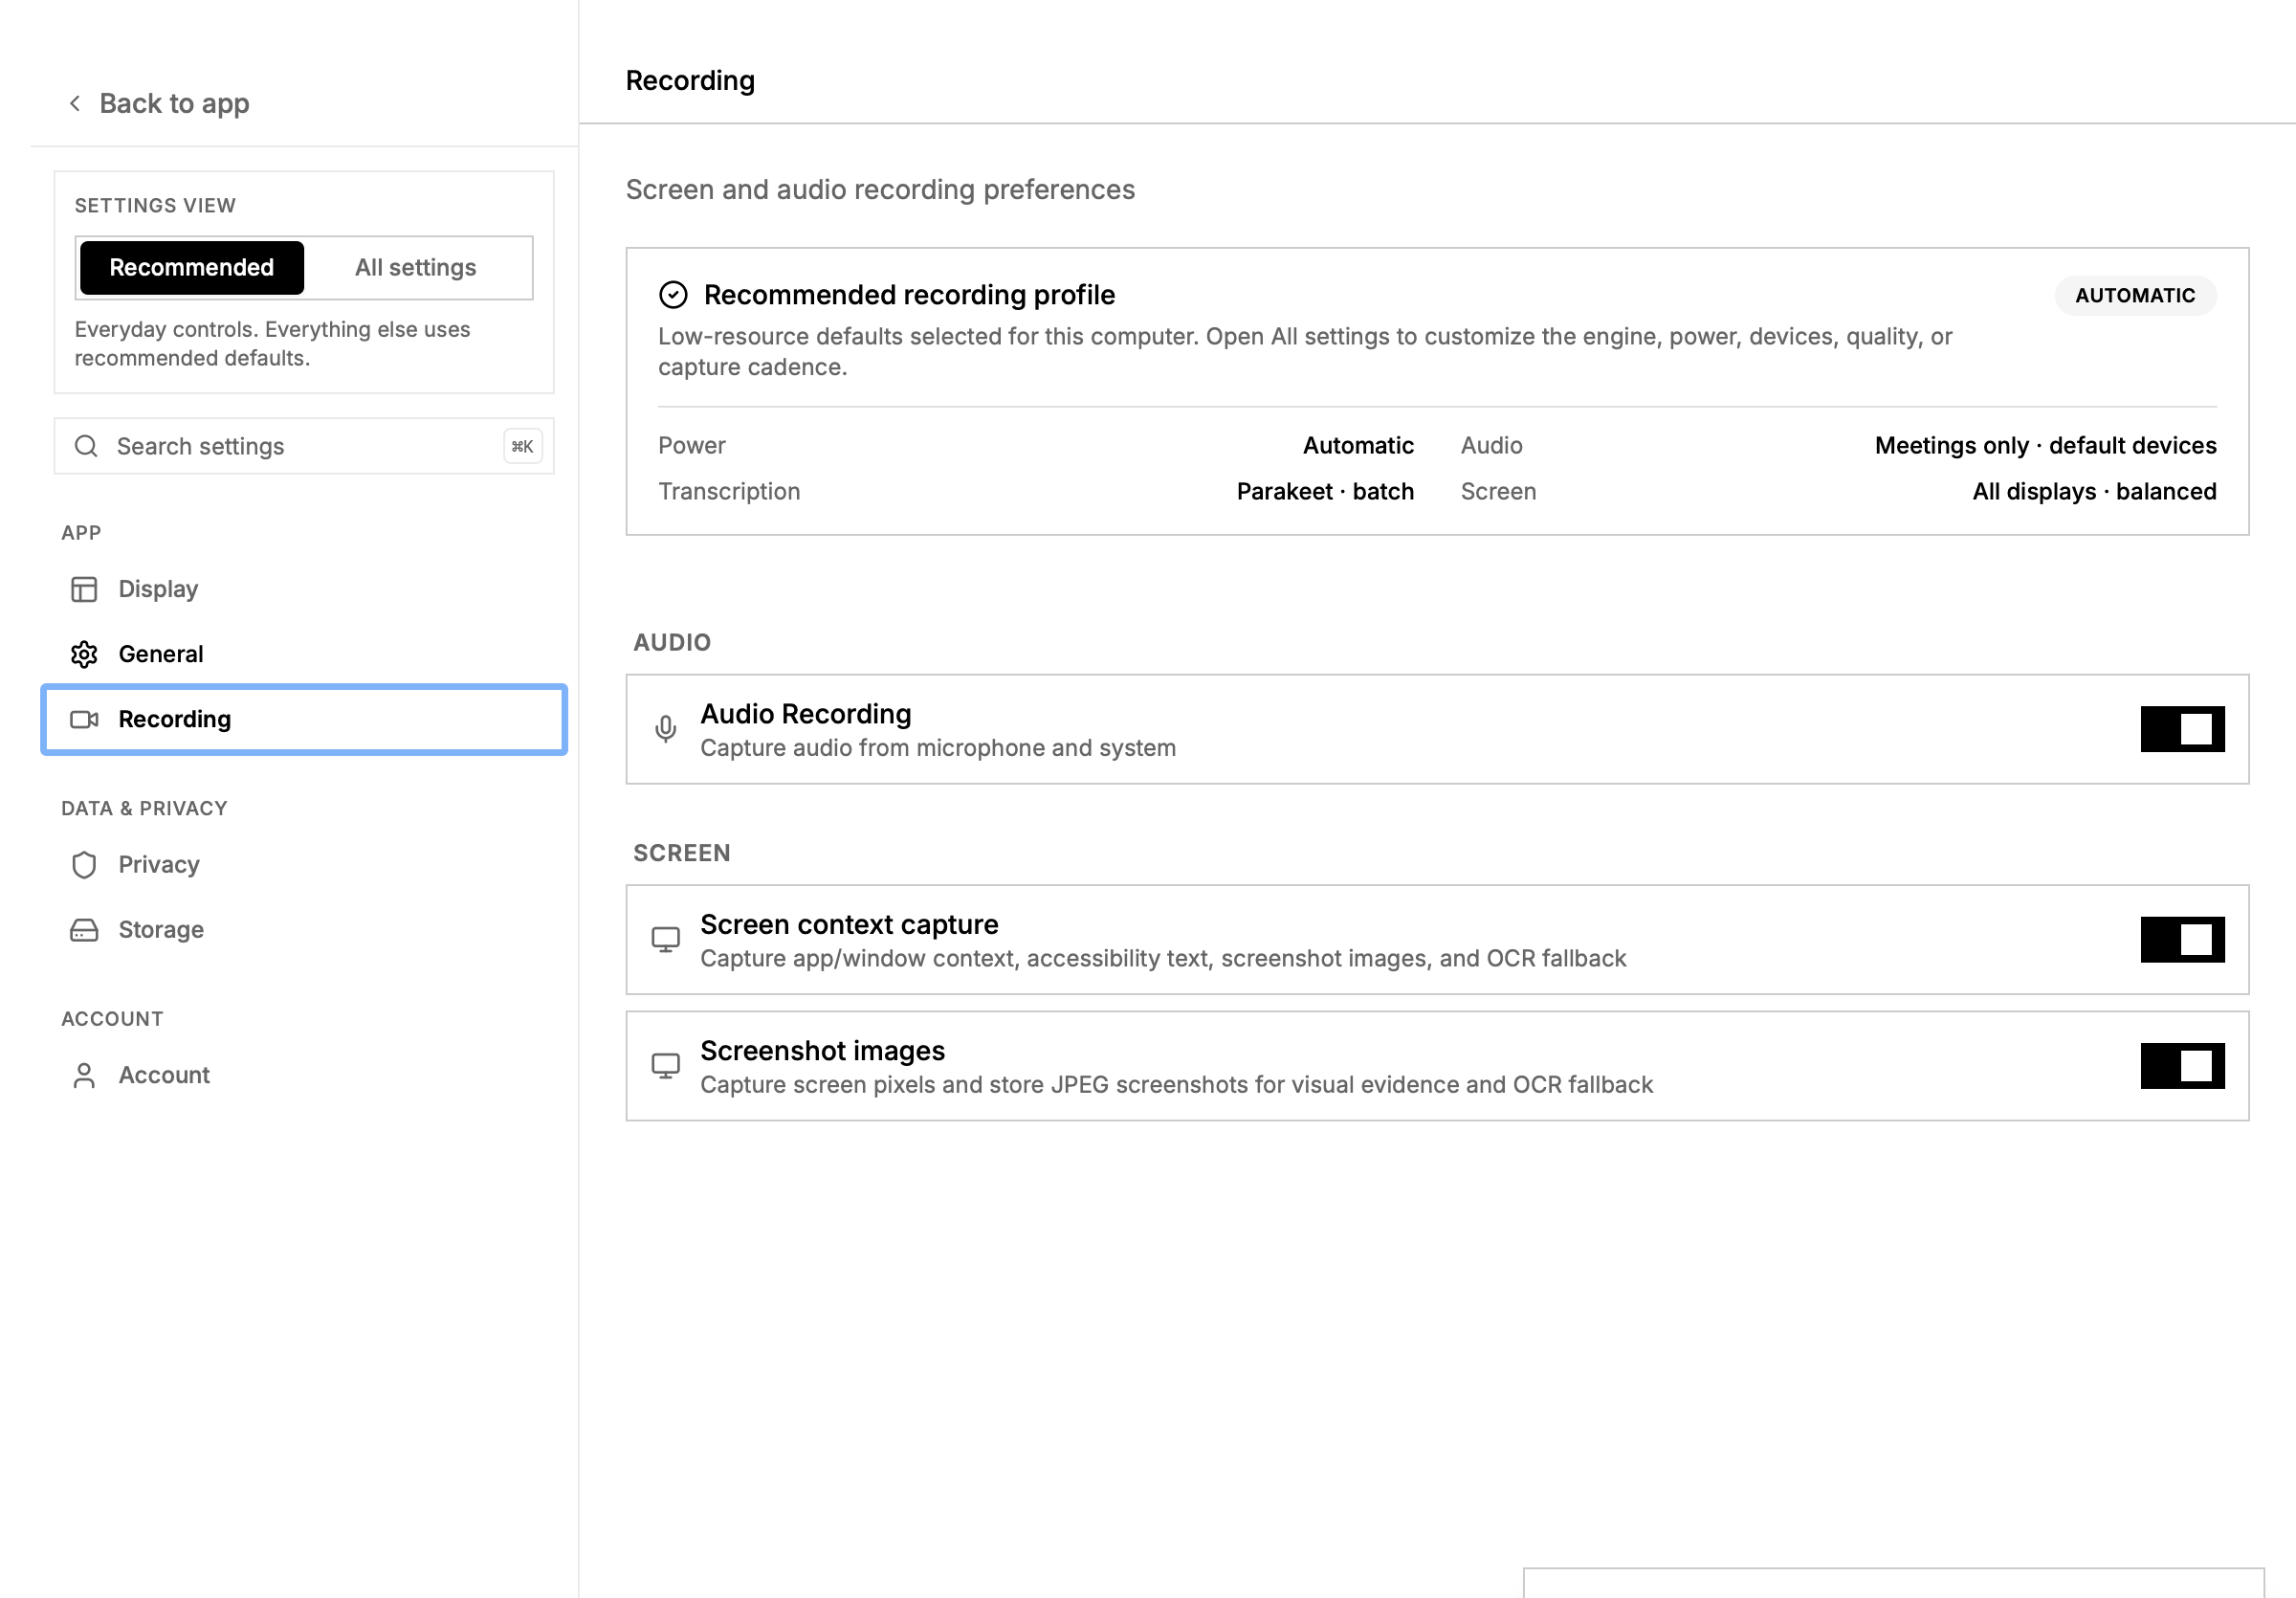
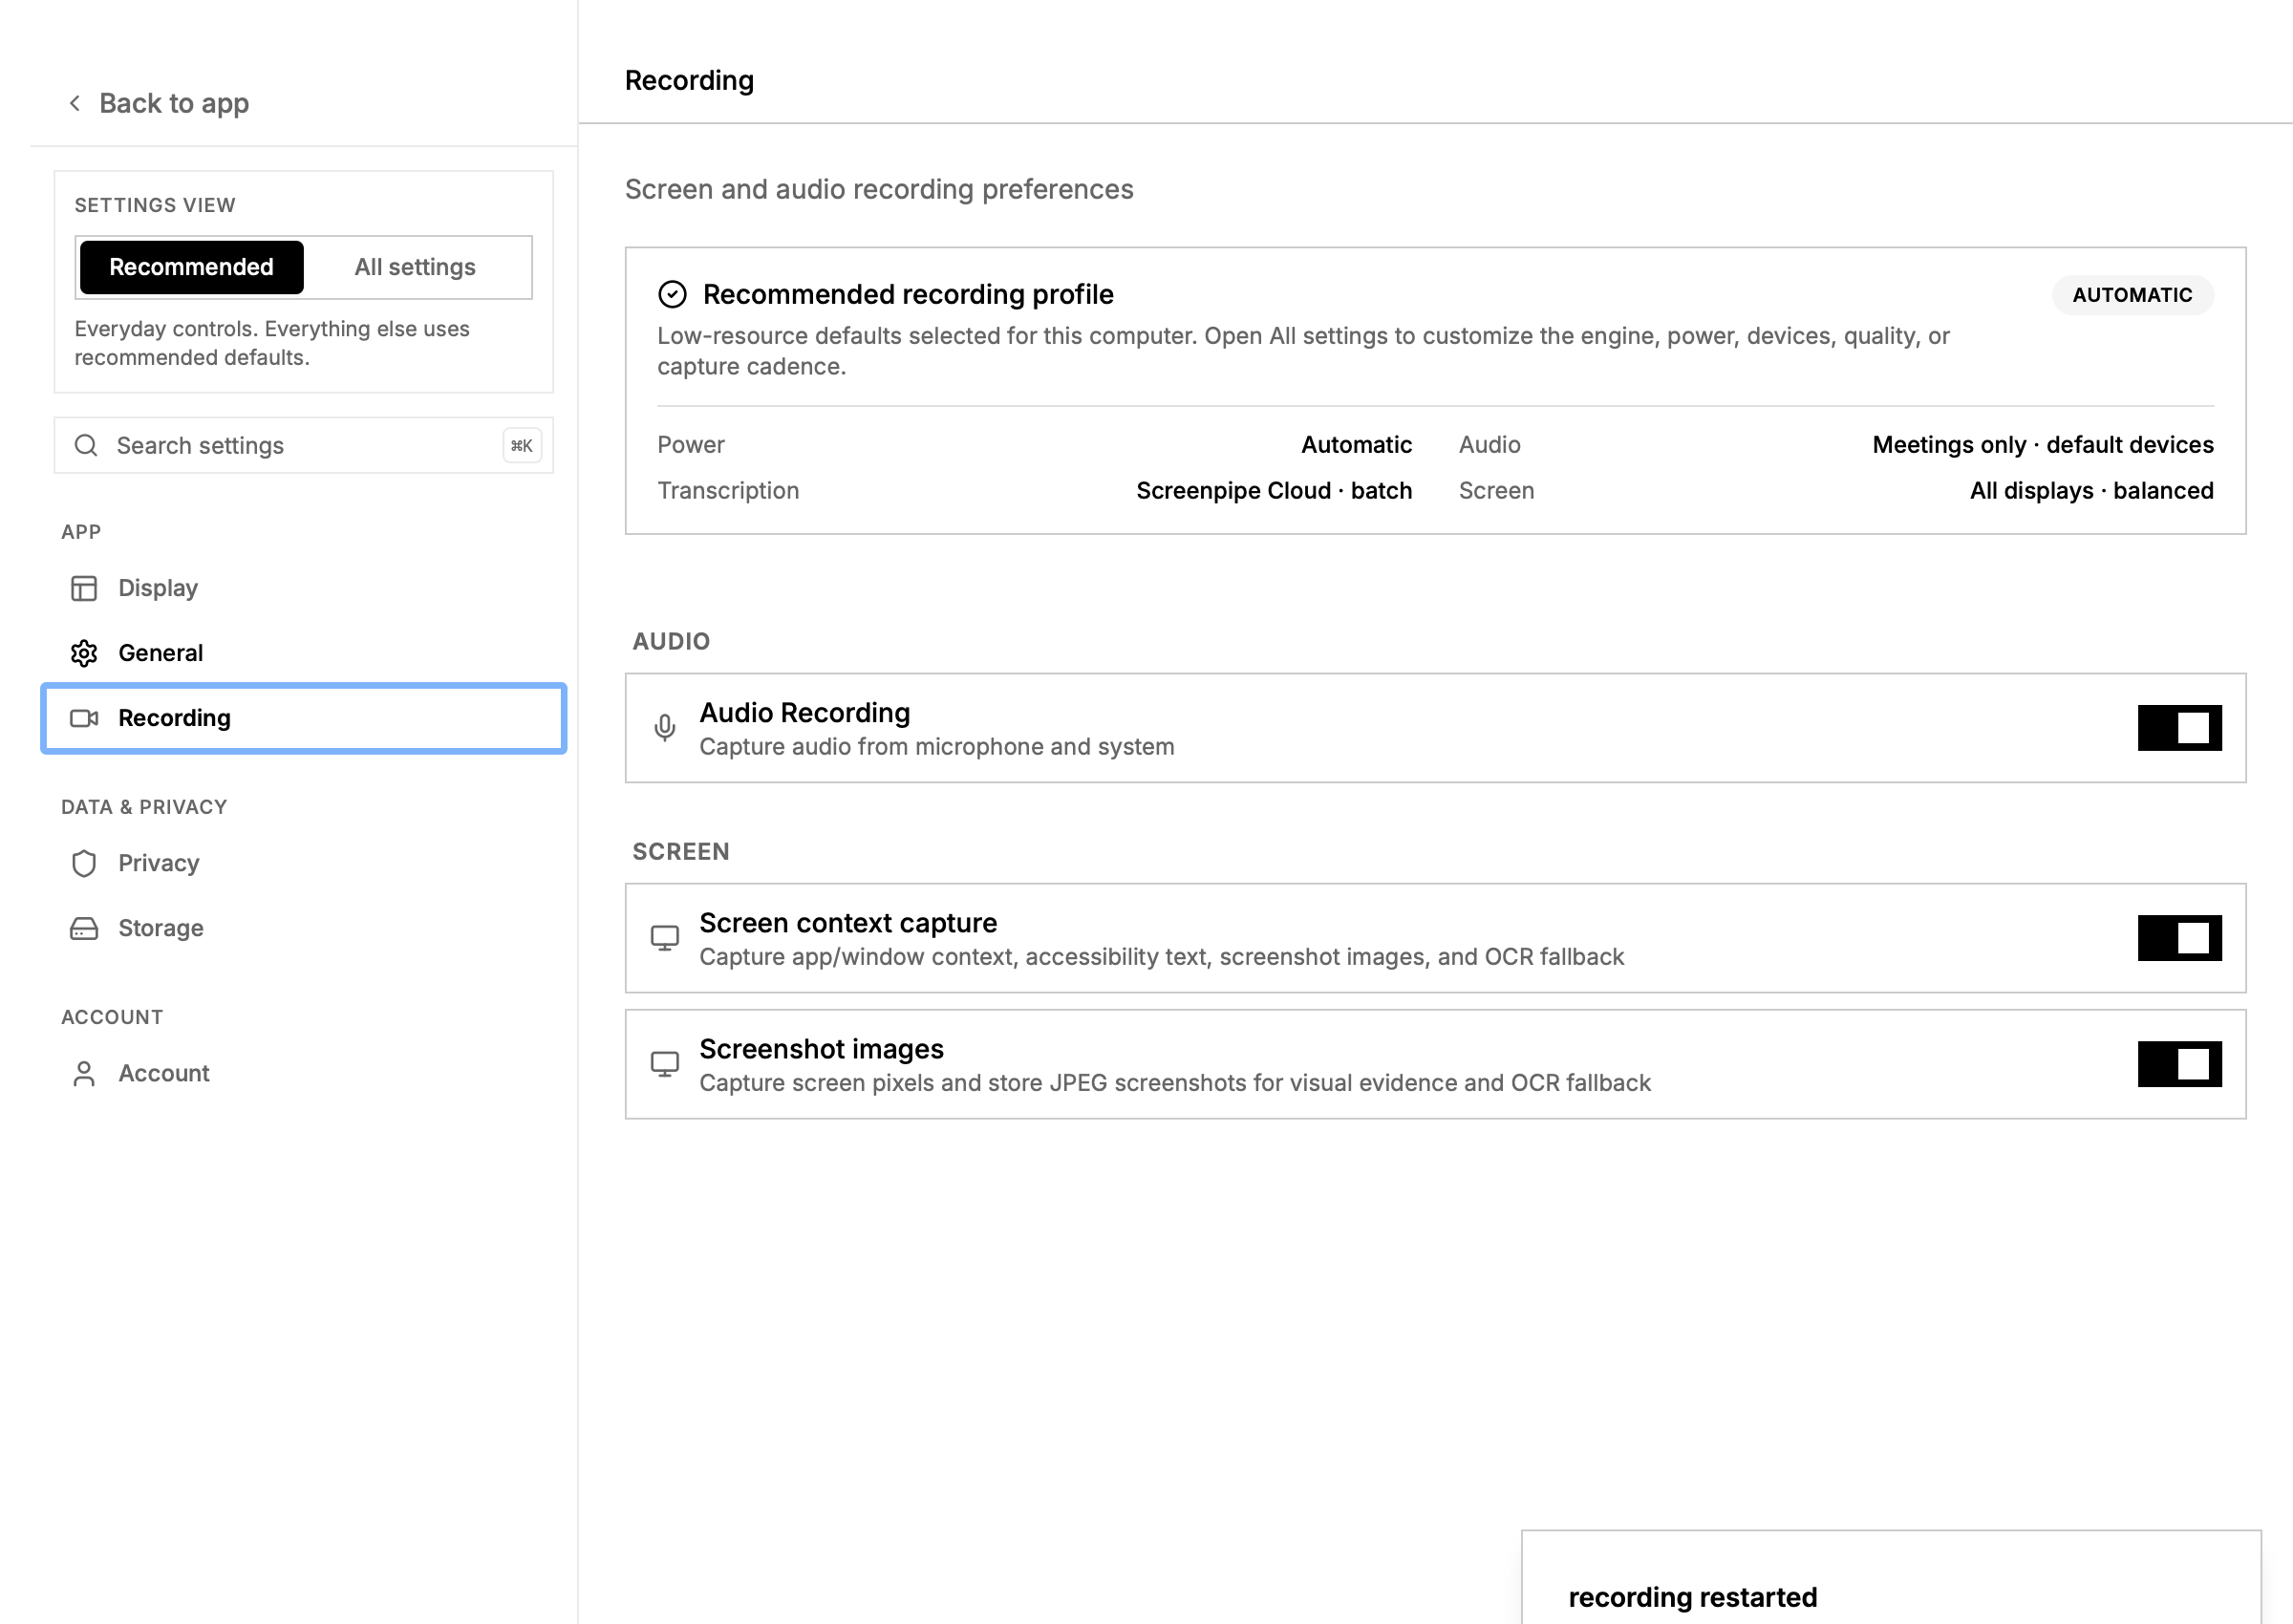
fix(settings): always recommend cloud transcription

diff --git a/apps/screenpipe-app-tauri/components/settings/simple-settings-mode.ts b/apps/screenpipe-app-tauri/components/settings/simple-settings-mode.ts
@@ -84,7 +84,6 @@ type RecommendedDeviceTier = "high" | "mid" | "low";
 type RecommendedHardwareCapability = {
   cpuCores: number;
   totalMemoryGb: number;
-  recommendedEngine?: string;
 };
 
 export function classifyRecommendedDeviceTier(
@@ -102,51 +101,34 @@ export function classifyRecommendedDeviceTier(
 }
 
 /**
- * Build the same conservative, hardware-aware profile used for new installs.
+ * Build the same conservative, resource-aware profile used for new installs.
  * Privacy and capture opt-outs are intentionally absent: Recommended should
  * tune resource use and reliability, not silently re-enable data collection.
+ * Transcription stays on Screenpipe Cloud for every device; hardware only
+ * changes local capture cost (power, displays, and video quality).
  */
 export function getRecommendedRecordingDefaults({
   settings,
   defaults,
   hardware,
-  hasCloudTranscriptionAccess,
 }: {
   settings: Settings;
   defaults: Settings;
   hardware?: RecommendedHardwareCapability | null;
-  hasCloudTranscriptionAccess: boolean;
 }): Partial<Settings> {
   const storedTier = settings.deviceTier;
   const tier: RecommendedDeviceTier =
     storedTier === "high" || storedTier === "mid" || storedTier === "low"
       ? storedTier
       : classifyRecommendedDeviceTier(hardware);
-  const hasCloudAuth = Boolean(settings.user?.token || settings.user?.id);
-  const fallbackHighTierEngine =
-    settings.platform === "macos"
-      ? "whisper-large-v3-turbo-quantized"
-      : "parakeet";
-  const localEngine =
-    tier === "low" || tier === "mid"
-      ? "whisper-tiny"
-      : hardware?.recommendedEngine || fallbackHighTierEngine;
-  const audioTranscriptionEngine =
-    hasCloudTranscriptionAccess && hasCloudAuth
-      ? "screenpipe-cloud"
-      : localEngine;
-
   return {
     powerMode: tier === "low" ? "battery_saver" : "auto",
     keepComputerAwake: false,
     audioCaptureMode: "meetings-only",
-    audioTranscriptionEngine,
+    audioTranscriptionEngine: "screenpipe-cloud",
     transcriptionMode: "batch",
     meetingLiveTranscriptionEnabled: true,
-    meetingLiveTranscriptionProvider:
-      audioTranscriptionEngine === "screenpipe-cloud"
-        ? "screenpipe-cloud"
-        : "selected-engine",
+    meetingLiveTranscriptionProvider: "screenpipe-cloud",
     audioChunkDuration: defaults.audioChunkDuration,
     batchMaxDurationSecs: defaults.batchMaxDurationSecs,
     filterMusic: false,

diff --git a/apps/screenpipe-app-tauri/components/settings/__tests__/simple-settings-mode.test.ts b/apps/screenpipe-app-tauri/components/settings/__tests__/simple-settings-mode.test.ts
@@ -76,18 +76,18 @@ describe("recommended settings view", () => {
     expect(classifyRecommendedDeviceTier({ cpuCores: 10, totalMemoryGb: 32 })).toBe("high");
   });
 
-  it("uses a conservative local profile on low-resource devices", () => {
+  it("uses cloud transcription with conservative capture on low-resource devices", () => {
     const profile = getRecommendedRecordingDefaults({
       settings: makeSettings(),
       defaults: makeSettings(),
-      hardware: { cpuCores: 4, totalMemoryGb: 8, recommendedEngine: "parakeet" },
-      hasCloudTranscriptionAccess: false,
+      hardware: { cpuCores: 4, totalMemoryGb: 8 },
     });
 
     expect(profile).toMatchObject({
       powerMode: "battery_saver",
       audioCaptureMode: "meetings-only",
-      audioTranscriptionEngine: "whisper-tiny",
+      audioTranscriptionEngine: "screenpipe-cloud",
+      meetingLiveTranscriptionProvider: "screenpipe-cloud",
       transcriptionMode: "batch",
       useAllMonitors: false,
       monitorIds: ["default"],
@@ -97,30 +97,28 @@ describe("recommended settings view", () => {
     });
   });
 
-  it("uses all displays and the platform recommendation on high-resource devices", () => {
+  it("keeps cloud transcription while using all displays on high-resource devices", () => {
     const profile = getRecommendedRecordingDefaults({
       settings: makeSettings(),
       defaults: makeSettings(),
-      hardware: { cpuCores: 10, totalMemoryGb: 32, recommendedEngine: "parakeet" },
-      hasCloudTranscriptionAccess: false,
+      hardware: { cpuCores: 10, totalMemoryGb: 32 },
     });
 
     expect(profile).toMatchObject({
       powerMode: "auto",
-      audioTranscriptionEngine: "parakeet",
+      audioTranscriptionEngine: "screenpipe-cloud",
       useAllMonitors: true,
       videoQuality: "balanced",
     });
   });
 
-  it("prefers cloud transcription for an entitled signed-in user", () => {
+  it("uses cloud transcription without changing the profile by account tier", () => {
     const profile = getRecommendedRecordingDefaults({
       settings: makeSettings({
         user: { id: "user_123", token: "token_123" } as Settings["user"],
       }),
       defaults: makeSettings(),
       hardware: { cpuCores: 4, totalMemoryGb: 8 },
-      hasCloudTranscriptionAccess: true,
     });
 
     expect(profile.audioTranscriptionEngine).toBe("screenpipe-cloud");
@@ -132,7 +130,6 @@ describe("recommended settings view", () => {
       settings: makeSettings({ disableAudio: true, disableVision: true }),
       defaults: makeSettings(),
       hardware: { cpuCores: 4, totalMemoryGb: 8 },
-      hasCloudTranscriptionAccess: false,
     });
 
     expect(profile).not.toHaveProperty("disableAudio");

diff --git a/apps/screenpipe-app-tauri/e2e/specs/settings-sections.spec.ts b/apps/screenpipe-app-tauri/e2e/specs/settings-sections.spec.ts
@@ -302,18 +302,6 @@ describe('Settings sections', () => {
       await useSystemDefaultAudio.click();
     }
 
-    const transcriptionEngine = await $('[data-testid="recording-transcription-engine"]');
-    await transcriptionEngine.click();
-    const deepgramOption = await $('//*[@role="option" and contains(., "Deepgram")]');
-    await deepgramOption.waitForDisplayed({ timeout: 5_000 });
-    await deepgramOption.click();
-
-    const videoQuality = await $('[data-testid="recording-video-quality"]');
-    await videoQuality.click();
-    const maxQualityOption = await $('//*[@role="option" and contains(., "max") and contains(., "native")]');
-    await maxQualityOption.waitForDisplayed({ timeout: 5_000 });
-    await maxQualityOption.click();
-
     const generalNav = await $('[data-testid="settings-nav-general"]');
     await generalNav.click();
     await $('[data-testid="section-settings-general"]').waitForExist({ timeout: 8_000 });
@@ -352,6 +340,7 @@ describe('Settings sections', () => {
     await recommendedProfile.waitForDisplayed({ timeout: 8_000 });
     const profileText = (await recommendedProfile.getText()).toLowerCase();
     expect(profileText).toContain('meetings only');
+    expect(profileText).toContain('screenpipe cloud');
     expect(profileText).toContain('batch');
     expect(profileText).not.toContain('deepgram');
     expect(await $('#useAllMonitors').isExisting()).toBe(false);
@@ -369,7 +358,6 @@ describe('Settings sections', () => {
     await recommendedDefaultAudio.waitForExist({ timeout: 8_000 });
     expect(await recommendedDefaultAudio.getAttribute('data-state')).toBe('checked');
     const recommendedEngine = await $('[data-testid="recording-transcription-engine"]');
-    expect((await recommendedEngine.getText()).toLowerCase()).not.toContain('deepgram');
-    expect((await $('[data-testid="recording-video-quality"]').getText()).toLowerCase()).not.toContain('max');
+    expect((await recommendedEngine.getText()).toLowerCase()).toContain('screenpipe cloud');
   });
 });

diff --git a/apps/screenpipe-app-tauri/app/(main)/settings/page.tsx b/apps/screenpipe-app-tauri/app/(main)/settings/page.tsx
@@ -103,7 +103,6 @@ import {
   setRecommendedSettingsRestartRequired,
 } from "@/components/settings/simple-settings-mode";
 import { ApplyRestartBar } from "@/components/settings/apply-restart-bar";
-import { hasAppEntitlement } from "@/lib/app-entitlement";
 
 type SettingsSection =
   | "account"
@@ -285,7 +284,6 @@ function SettingsContent() {
         settings,
         defaults,
         hardware,
-        hasCloudTranscriptionAccess: hasAppEntitlement(settings.user as any),
       });
       const recordingDefaultsChanged = RECOMMENDED_RECORDING_DEFAULT_KEYS.some(
         (key) =>
@@ -668,7 +666,7 @@ function SettingsContent() {
               AI models, keyboard shortcuts, notifications, usage reporting, and
               speaker preferences will return to their recommended defaults.
               Recording will use a low-resource profile for this computer: meeting-only
-              audio, the best default transcription engine, automatic power and capture
+              audio, Screenpipe Cloud transcription, automatic power and capture
               quality, and system-default audio devices. High-spec computers use all
               monitors; lower-spec computers use the primary monitor. You&apos;ll be asked
               to apply and restart. Privacy, storage, account, and recording on/off

diff --git a/apps/screenpipe-app-tauri/src-tauri/src/hardware.rs b/apps/screenpipe-app-tauri/src-tauri/src/hardware.rs
@@ -26,19 +26,18 @@ pub fn detect_hardware_capability() -> HardwareCapability {
     sys.refresh_memory();
     let cpu_cores = sys.cpus().len();
     let total_memory_gb = sys.total_memory() as f64 / (1024.0 * 1024.0 * 1024.0);
-    let tier = screenpipe_config::detect_tier();
-    let recommended_engine = screenpipe_config::best_engine_for_platform(tier);
 
+    // Parakeet is the default for all — lightweight ONNX, no GPU needed
     let reason = format!(
-        "{} is the safe default for the {:?} hardware tier ({} cores, {:.1} GB RAM)",
-        recommended_engine, tier, cpu_cores, total_memory_gb
+        "Parakeet TDT 0.6B (multilingual, ONNX) — works on all hardware ({} cores, {:.1} GB RAM)",
+        cpu_cores, total_memory_gb
     );
 
     HardwareCapability {
         has_gpu,
         cpu_cores,
         total_memory_gb,
-        recommended_engine: recommended_engine.to_string(),
+        recommended_engine: "parakeet".to_string(),
         reason,
     }
 }
@@ -47,20 +46,4 @@ pub fn detect_hardware_capability() -> HardwareCapability {
 #[specta::specta]
 pub fn get_hardware_capability() -> HardwareCapability {
     detect_hardware_capability()
-}
-
-#[cfg(test)]
-mod tests {
-    use super::*;
-
-    #[test]
-    fn recommendation_uses_the_shared_platform_and_tier_policy() {
-        let capability = detect_hardware_capability();
-        let tier = screenpipe_config::detect_tier();
-
-        assert_eq!(
-            capability.recommended_engine,
-            screenpipe_config::best_engine_for_platform(tier)
-        );
-    }
 }